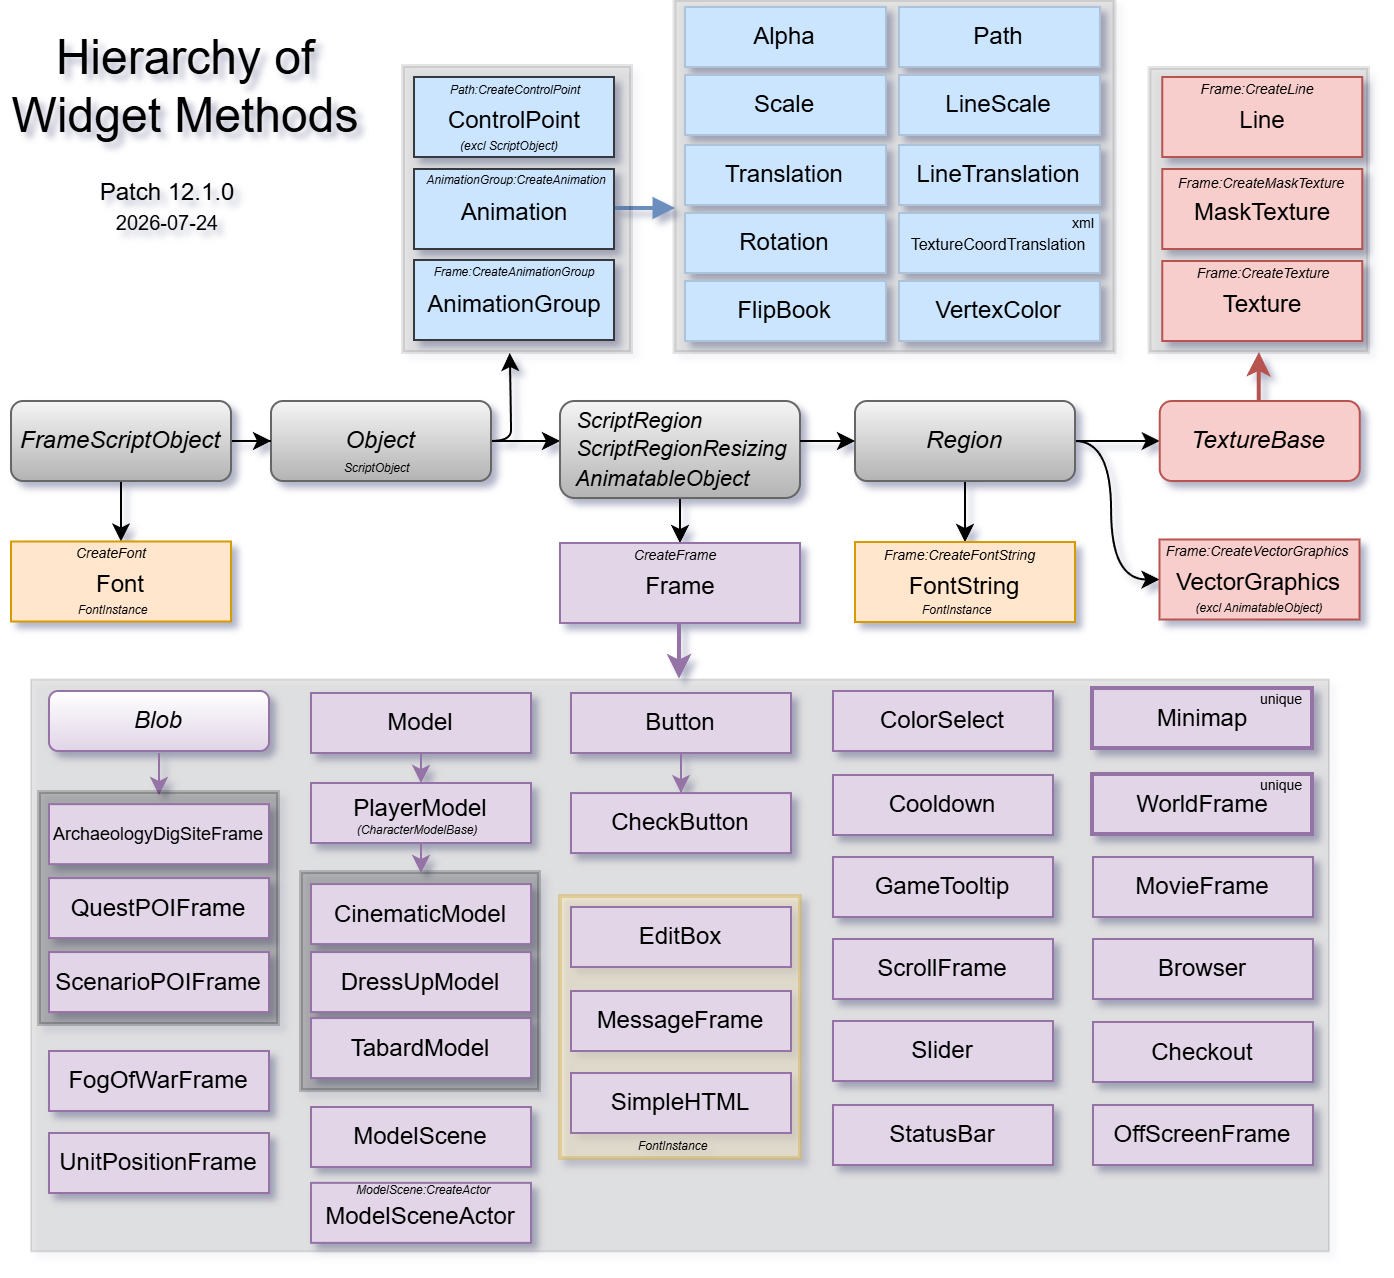
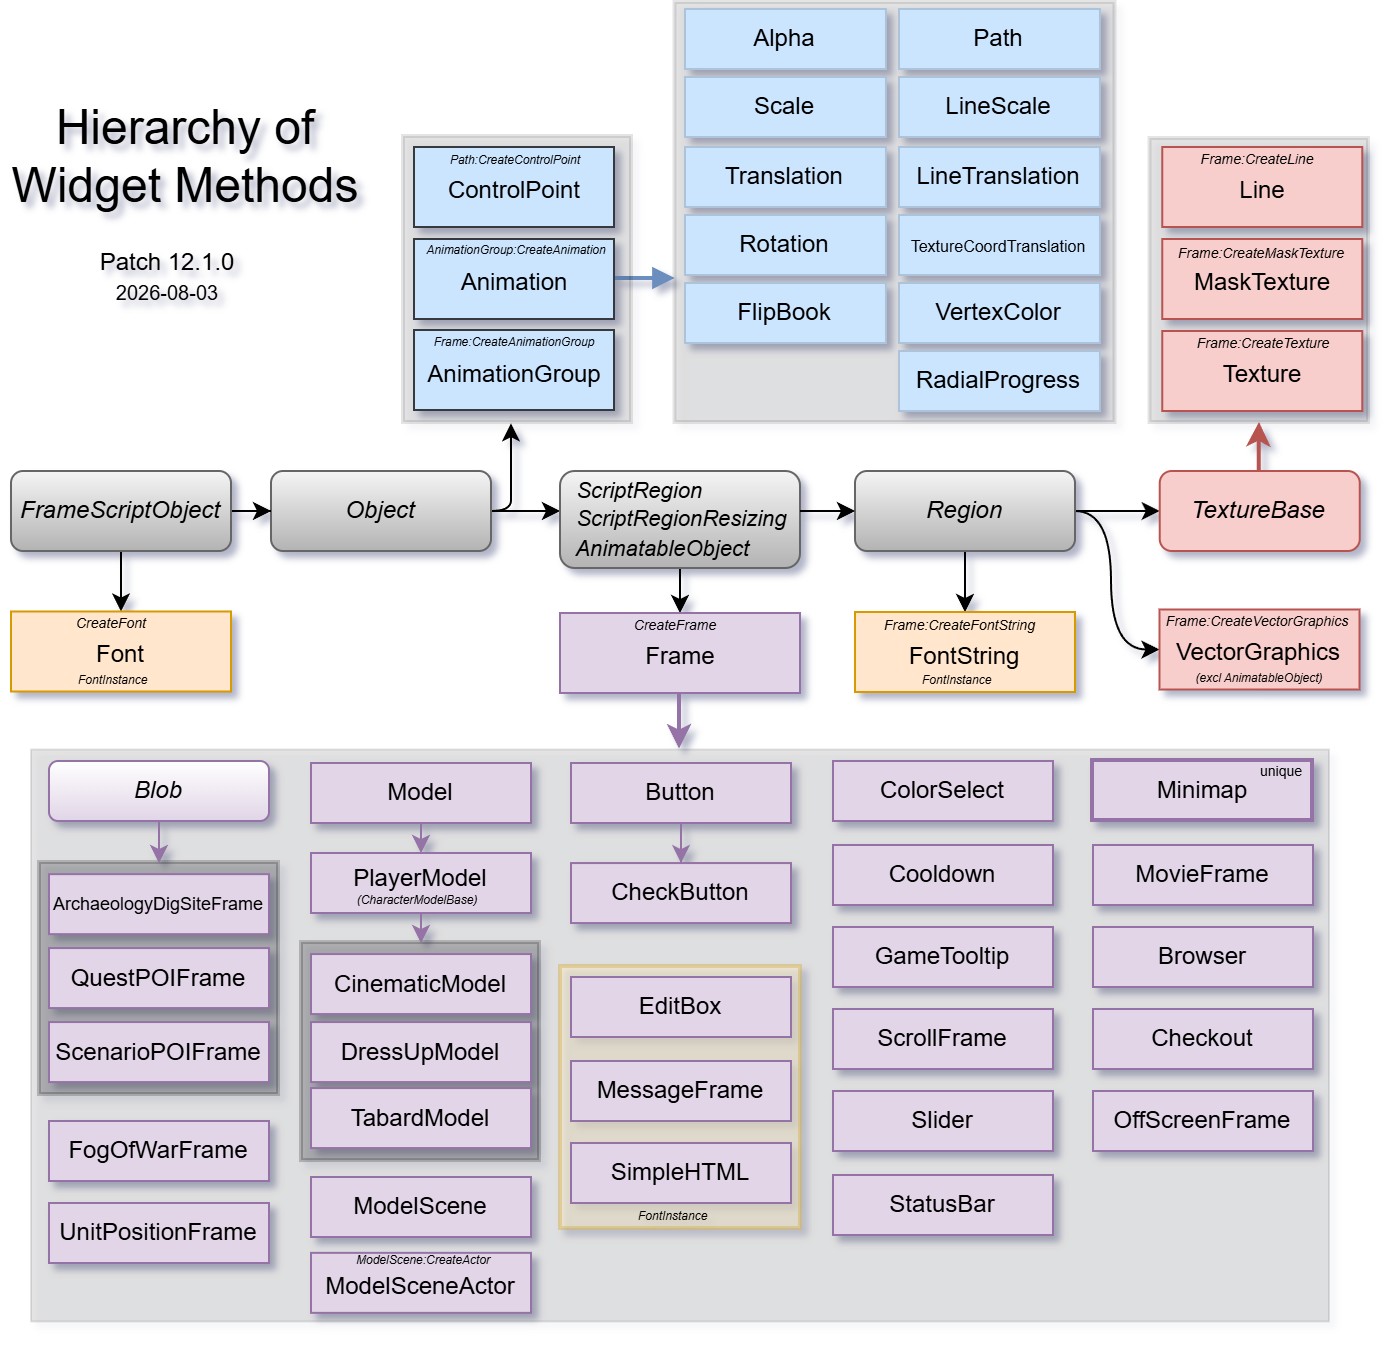
12.1.0 (69111)

diff --git a/README.md b/README.md
@@ -4,7 +4,7 @@ Global resources extracted from World of Warcraft for development purposes.
 * [GlobalStrings](https://github.com/Ketho/WowDoc/blob/master/Projects/UpdateResources/GlobalStrings.lua) and [AtlasInfo](https://github.com/Ketho/WowDoc/blob/master/Projects/UpdateResources/AtlasInfo.lua) are downloaded from [wago.tools](https://wago.tools/db2/GlobalStrings)
 * Templates and mixins are [parsed](https://github.com/Ketho/WowDoc/blob/master/Projects/DumbXmlParser/init.lua) from FrameXML
 ```lua
-GetBuildInfo() => "12.1.0", "68914", "Jul 23 2026", 120100
+GetBuildInfo() => "12.1.0", "69111", "Aug  3 2026", 120100
 ```
 ```lua
 IsPublicBuild() => true
